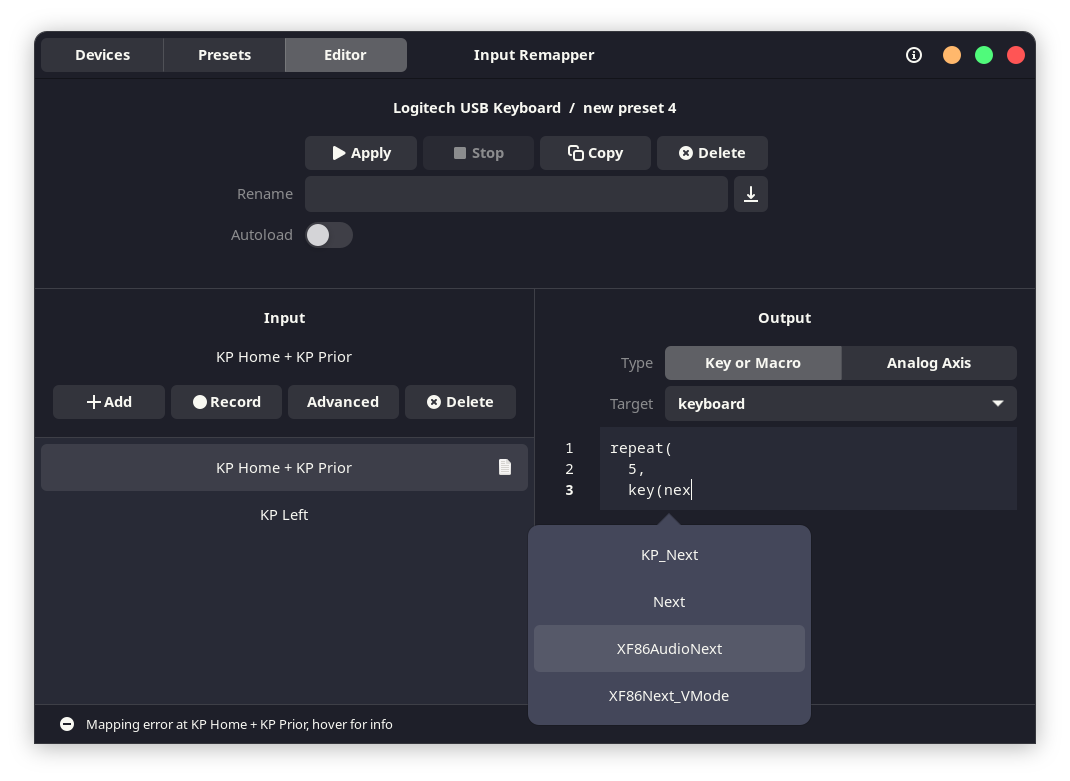
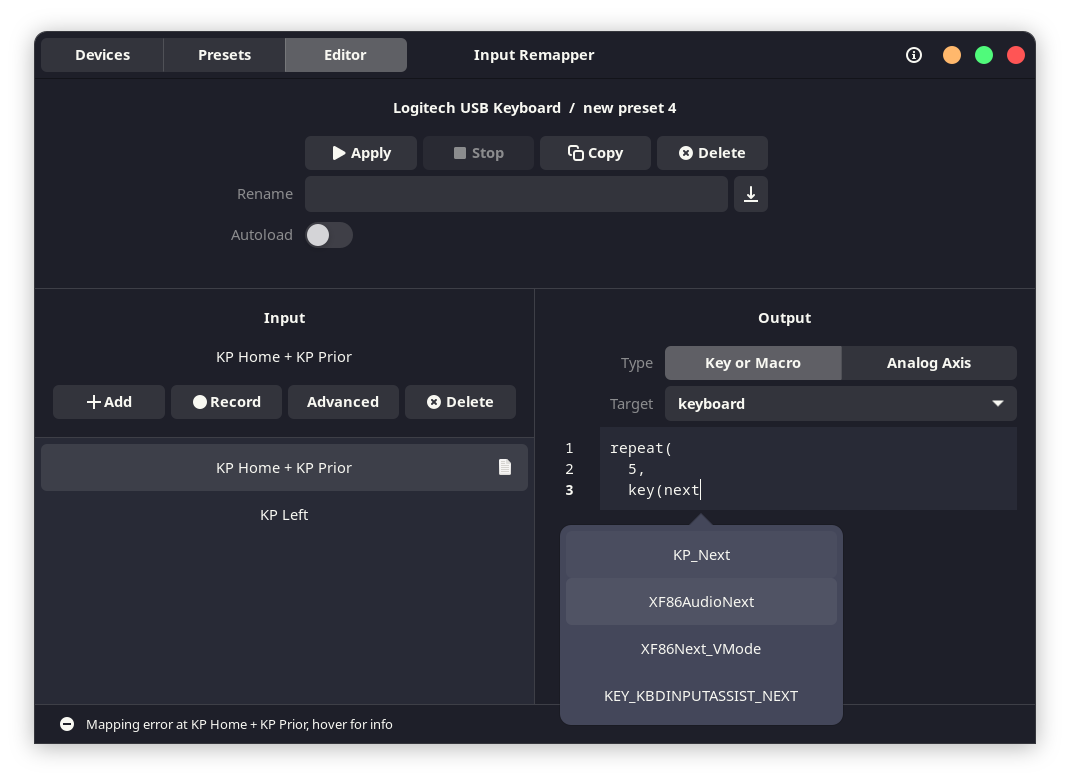
updated screenshot and autocompletion position

diff --git a/inputremapper/gui/autocompletion.py b/inputremapper/gui/autocompletion.py
@@ -365,7 +365,7 @@ class Autocompletion(Gtk.Popover):
         cursor.y += 12
 
         if self.code_editor.gui.get_show_line_numbers():
-            cursor.x += 25
+            cursor.x += 48
 
         self.set_pointing_to(cursor)
 
